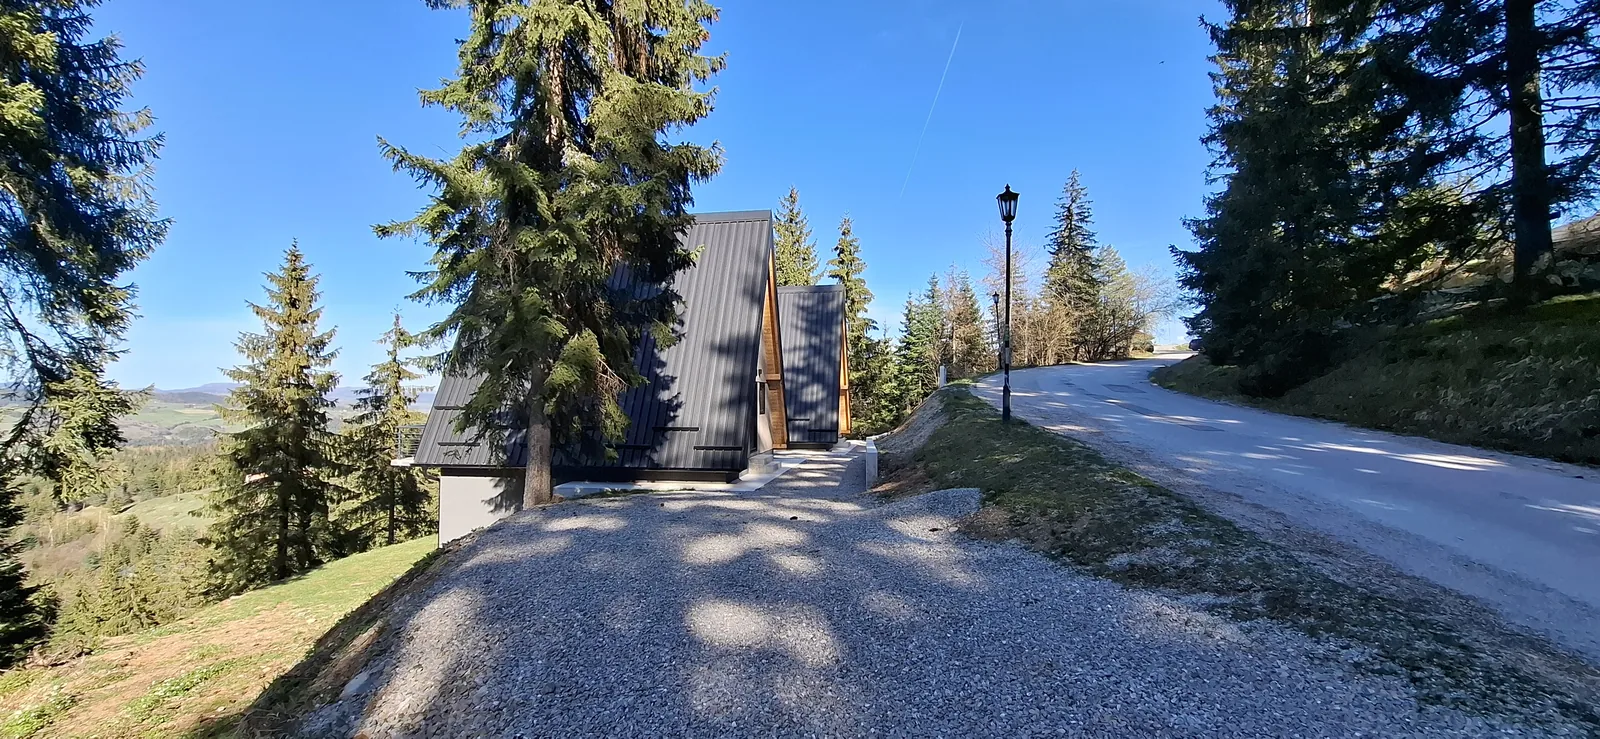
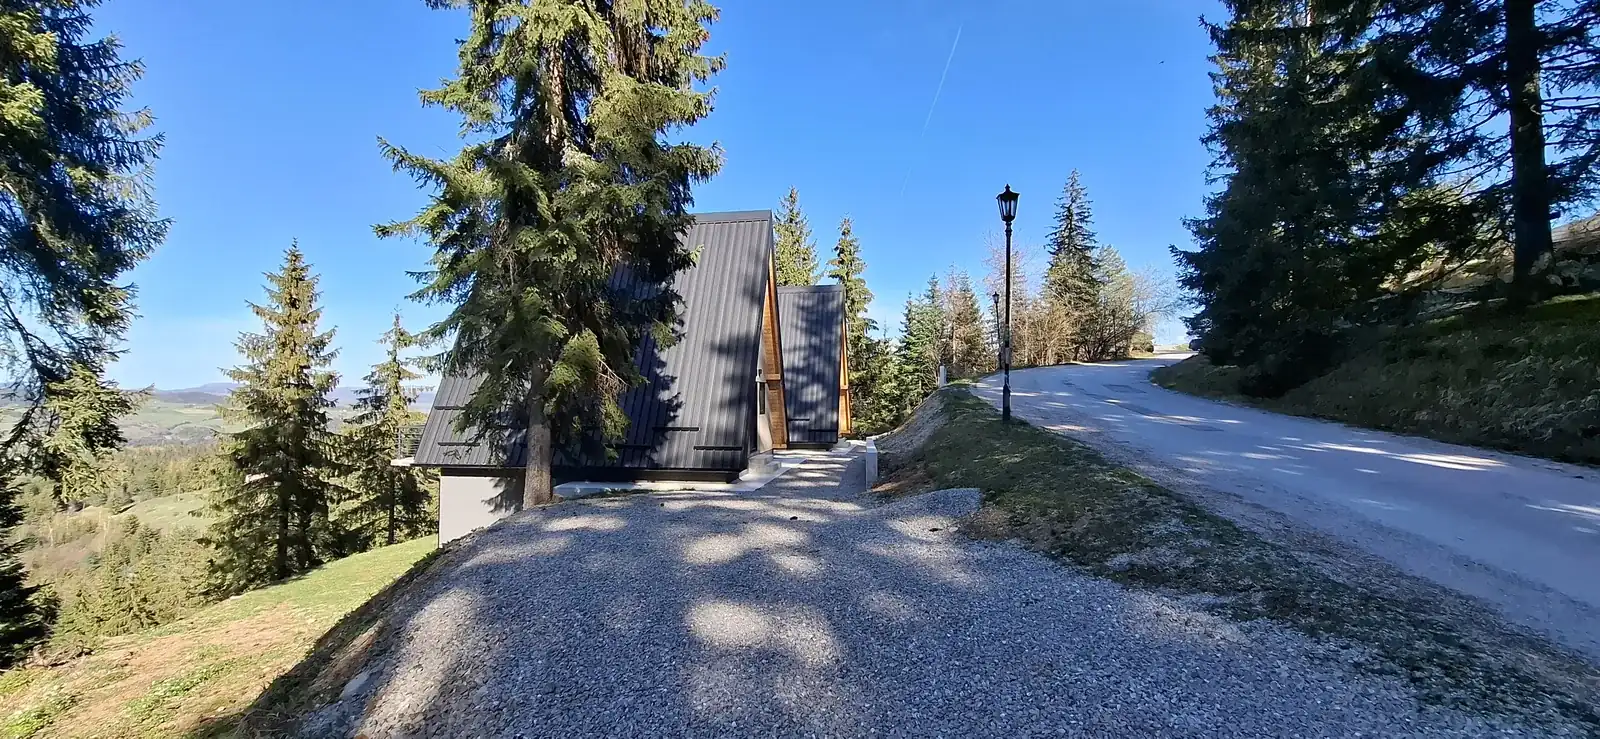
Polish launch SEO and image performance

diff --git a/index.html b/index.html
@@ -22,6 +22,50 @@
   <meta name="robots" content="index,follow,max-image-preview:large">
   <meta name="theme-color" content="#233429">
   <link rel="icon" href="favicon.svg" type="image/svg+xml">
+  <link
+    rel="preload"
+    as="image"
+    href="images/hero/hero-exterior.webp"
+    imagesrcset="images/hero/hero-exterior-960.webp 960w, images/hero/hero-exterior.webp 1920w"
+    imagesizes="100vw"
+  >
+  <script type="application/ld+json">
+    {
+      "@context": "https://schema.org",
+      "@type": ["LodgingBusiness", "VacationRental"],
+      "name": "Vikendica Zečević Zlatar",
+      "url": "https://vikendicazecevic.rs/",
+      "image": "https://vikendicazecevic.rs/images/hero/hero-exterior.webp",
+      "description": "Porodična A-frame vikendica na Zlataru za do 6 gostiju, sa terasom, Wi-Fi internetom, parkingom, roštiljem i planinskim mirom na 1.200 m.",
+      "email": "vikendicazecevic@gmail.com",
+      "telephone": ["+381 65 65 89 346", "+381 69 231 69 41"],
+      "address": {
+        "@type": "PostalAddress",
+        "streetAddress": "Brdo bb, Zlatar",
+        "addressLocality": "Nova Varoš",
+        "addressCountry": "RS"
+      },
+      "geo": {
+        "@type": "GeoCoordinates",
+        "latitude": 43.436136,
+        "longitude": 19.827811
+      },
+      "containsPlace": {
+        "@type": "Accommodation",
+        "name": "Vikendica Zečević",
+        "occupancy": {
+          "@type": "QuantitativeValue",
+          "maxValue": 6
+        },
+        "numberOfRooms": 2,
+        "floorSize": {
+          "@type": "QuantitativeValue",
+          "value": 60,
+          "unitCode": "MTK"
+        }
+      }
+    }
+  </script>
   <link rel="stylesheet" href="styles.css">
 </head>
 <body>
@@ -40,8 +84,8 @@
       </ul>
       <div class="nav-right">
         <div class="lang-toggle">
-          <button class="lang-btn active" type="button" data-lang="sr">SR</button>
-          <button class="lang-btn" type="button" data-lang="en">EN</button>
+          <button class="lang-btn active" type="button" data-lang="sr" aria-pressed="true">SR</button>
+          <button class="lang-btn" type="button" data-lang="en" aria-pressed="false">EN</button>
         </div>
         <button
           class="nav-hamburger"
@@ -66,6 +110,8 @@
       <img
         class="hero-image"
         src="images/hero/hero-exterior.webp"
+        srcset="images/hero/hero-exterior-960.webp 960w, images/hero/hero-exterior.webp 1920w"
+        sizes="100vw"
         width="1920"
         height="887"
         alt="Eksterijer Vikendice Zečević Zlatar u planinskom okruženju."
@@ -105,6 +151,8 @@
             <img
               class="about-photo"
               src="images/about/about-exterior.webp"
+              srcset="images/about/about-exterior-520.webp 520w, images/about/about-exterior.webp 693w"
+              sizes="(max-width: 768px) 90vw, 42vw"
               width="693"
               height="1500"
               alt="Eksterijer A-frame vikendice Zečević na Zlataru."
@@ -116,6 +164,8 @@
             <img
               class="about-photo"
               src="images/about/about-interior.webp"
+              srcset="images/about/about-interior-800.webp 800w, images/about/about-interior.webp 1600w"
+              sizes="(max-width: 768px) 45vw, 300px"
               width="1600"
               height="739"
               alt="Enterijer vikendice sa drvenom konstrukcijom i kuhinjom."
@@ -248,7 +298,7 @@
     <div class="lightbox-inner">
       <button class="lightbox-close" id="lb-close" type="button" data-i18n-aria="gallery.lightbox.close" aria-label="Zatvori">✕</button>
       <button class="lightbox-nav lightbox-prev" id="lb-prev" type="button" data-i18n-aria="gallery.lightbox.prev" aria-label="Prethodno">‹</button>
-      <div id="lb-content" class="lightbox-content" data-i18n="gallery.lightbox.placeholder">foto placeholder</div>
+      <div id="lb-content" class="lightbox-content" data-i18n="gallery.lightbox.placeholder">Izaberite fotografiju iz galerije.</div>
       <button class="lightbox-nav lightbox-next" id="lb-next" type="button" data-i18n-aria="gallery.lightbox.next" aria-label="Sledeće">›</button>
     </div>
   </div>

diff --git a/script.js b/script.js
@@ -2,7 +2,6 @@ const CONTENT = window.SITE_CONTENT;
 
 const AMENITY_ICONS = {
   beds: '<svg viewBox="0 0 24 24" fill="none" stroke="currentColor" stroke-width="2"><path d="M3 12l2-2m0 0l7-7 7 7M5 10v10a1 1 0 001 1h3m10-11l2 2m-2-2v10a1 1 0 01-1 1h-3m-6 0a1 1 0 001-1v-4a1 1 0 011-1h2a1 1 0 011 1v4a1 1 0 001 1m-6 0h6"></path></svg>',
-  fire: '<svg viewBox="0 0 24 24" fill="none" stroke="currentColor" stroke-width="2"><path d="M17.657 18.657A8 8 0 016.343 7.343M18 12a6 6 0 11-12 0 6 6 0 0112 0z"></path></svg>',
   wifi: '<svg viewBox="0 0 24 24" fill="none" stroke="currentColor" stroke-width="2"><path d="M8.111 16.404a5.5 5.5 0 017.778 0M12 20h.01m-7.08-7.071c3.904-3.905 10.236-3.905 14.141 0M1.394 9.393c5.857-5.857 15.355-5.857 21.213 0"></path></svg>',
   park: '<svg viewBox="0 0 24 24" fill="none" stroke="currentColor" stroke-width="2"><rect x="3" y="11" width="18" height="11" rx="2"></rect><path d="M7 11V7a5 5 0 0110 0v4"></path></svg>',
   terrace: '<svg viewBox="0 0 24 24" fill="none" stroke="currentColor" stroke-width="2"><path d="M3 9l9-7 9 7v11a2 2 0 01-2 2H5a2 2 0 01-2-2z"></path><polyline points="9 22 9 12 15 12 15 22"></polyline></svg>',
@@ -11,8 +10,6 @@ const AMENITY_ICONS = {
   linen: '<svg viewBox="0 0 24 24" fill="none" stroke="currentColor" stroke-width="2"><path d="M14 2H6a2 2 0 00-2 2v16a2 2 0 002 2h12a2 2 0 002-2V8z"></path><polyline points="14 2 14 8 20 8"></polyline></svg>',
   heat: '<svg viewBox="0 0 24 24" fill="none" stroke="currentColor" stroke-width="2"><circle cx="12" cy="12" r="10"></circle><path d="M12 8v4l3 3"></path></svg>',
   tv: '<svg viewBox="0 0 24 24" fill="none" stroke="currentColor" stroke-width="2"><rect x="2" y="7" width="20" height="15" rx="2"></rect><path d="M16 7V5a2 2 0 00-2-2h-4a2 2 0 00-2 2v2"></path></svg>',
-  pets: '<svg viewBox="0 0 24 24" fill="none" stroke="currentColor" stroke-width="2"><path d="M3 3h18v18H3zM9 3v18M15 3v18M3 9h18M3 15h18"></path></svg>',
-  games: '<svg viewBox="0 0 24 24" fill="none" stroke="currentColor" stroke-width="2"><path d="M21 16V8a2 2 0 00-1-1.73l-7-4a2 2 0 00-2 0l-7 4A2 2 0 003 8v8a2 2 0 001 1.73l7 4a2 2 0 002 0l7-4A2 2 0 0021 16z"></path></svg>',
 };
 
 const INQUIRY_ICONS = {
@@ -161,8 +158,10 @@ function getGalleryEntries(lang = currentLang) {
     return {
       index,
       layout: media.layout || "standard",
-      source: media.src || media.placeholder || "",
-      fallbackSource: media.placeholder || media.src || "",
+      source: media.src || "",
+      fallbackSource: media.src || "",
+      srcset: media.srcset || "",
+      sizes: media.sizes || "",
       width: Number(media.width) || 1600,
       height: Number(media.height) || 1200,
       label: applyTokens(text.label || fallbackLabel),
@@ -445,7 +444,9 @@ function applyLocalizedText(lang) {
   });
 
   document.querySelectorAll(".lang-btn").forEach((button) => {
-    button.classList.toggle("active", button.dataset.lang === lang);
+    const isActive = button.dataset.lang === lang;
+    button.classList.toggle("active", isActive);
+    button.setAttribute("aria-pressed", String(isActive));
   });
 
   if (mapFrame) {
@@ -518,6 +519,8 @@ function renderGallery(lang) {
                 src="${escapeHtml(item.source)}"
                 data-fallback="${escapeHtml(item.fallbackSource)}"
                 alt="${escapeHtml(item.alt)}"
+                ${item.srcset ? `srcset="${escapeHtml(item.srcset)}"` : ""}
+                ${item.sizes ? `sizes="${escapeHtml(item.sizes)}"` : ""}
                 loading="lazy"
                 decoding="async"
                 width="${item.width}"

diff --git a/content.js b/content.js
@@ -34,56 +34,64 @@ window.SITE_CONTENT = {
     galleryMedia: [
       {
         src: "images/gallery/gallery-01-exterior.webp",
-        placeholder: "images/gallery/placeholders/exterior.svg",
+        srcset: "images/gallery/gallery-01-exterior-800.webp 800w, images/gallery/gallery-01-exterior.webp 1600w",
+        sizes: "(max-width: 560px) 100vw, (max-width: 900px) 100vw, 50vw",
         width: 1600,
         height: 739,
         layout: "featured",
       },
       {
         src: "images/gallery/gallery-02-living-room.webp",
-        placeholder: "images/gallery/placeholders/interior.svg",
+        srcset: "images/gallery/gallery-02-living-room-800.webp 800w, images/gallery/gallery-02-living-room.webp 1600w",
+        sizes: "(max-width: 560px) 100vw, (max-width: 900px) 50vw, 25vw",
         width: 1600,
         height: 739,
         layout: "standard",
       },
       {
         src: "images/gallery/gallery-03-kitchen-dining.webp",
-        placeholder: "images/gallery/placeholders/interior.svg",
+        srcset: "images/gallery/gallery-03-kitchen-dining-800.webp 800w, images/gallery/gallery-03-kitchen-dining.webp 1600w",
+        sizes: "(max-width: 560px) 100vw, (max-width: 900px) 50vw, 25vw",
         width: 1600,
         height: 739,
         layout: "standard",
       },
       {
         src: "images/gallery/gallery-04-terrace-view.webp",
-        placeholder: "images/gallery/placeholders/landscape.svg",
+        srcset: "images/gallery/gallery-04-terrace-view-800.webp 800w, images/gallery/gallery-04-terrace-view.webp 1600w",
+        sizes: "(max-width: 560px) 100vw, (max-width: 900px) 100vw, 50vw",
         width: 1600,
         height: 739,
         layout: "wide",
       },
       {
         src: "images/gallery/gallery-05-bedroom.webp",
-        placeholder: "images/gallery/placeholders/interior.svg",
+        srcset: "images/gallery/gallery-05-bedroom-800.webp 800w, images/gallery/gallery-05-bedroom.webp 1600w",
+        sizes: "(max-width: 560px) 100vw, (max-width: 900px) 50vw, 25vw",
         width: 1600,
         height: 739,
         layout: "standard",
       },
       {
         src: "images/gallery/gallery-06-upstairs-bed.webp",
-        placeholder: "images/gallery/placeholders/interior.svg",
+        srcset: "images/gallery/gallery-06-upstairs-bed-800.webp 800w, images/gallery/gallery-06-upstairs-bed.webp 1600w",
+        sizes: "(max-width: 560px) 100vw, (max-width: 900px) 50vw, 25vw",
         width: 1600,
         height: 739,
         layout: "standard",
       },
       {
         src: "images/gallery/gallery-07-bathroom.webp",
-        placeholder: "images/gallery/placeholders/interior.svg",
+        srcset: "images/gallery/gallery-07-bathroom-800.webp 800w, images/gallery/gallery-07-bathroom.webp 1600w",
+        sizes: "(max-width: 560px) 100vw, (max-width: 900px) 50vw, 25vw",
         width: 1600,
         height: 739,
         layout: "standard",
       },
       {
         src: "images/gallery/gallery-08-surroundings.webp",
-        placeholder: "images/gallery/placeholders/landscape.svg",
+        srcset: "images/gallery/gallery-08-surroundings-800.webp 800w, images/gallery/gallery-08-surroundings.webp 1600w",
+        sizes: "(max-width: 560px) 100vw, (max-width: 900px) 50vw, 25vw",
         width: 1600,
         height: 739,
         layout: "standard",

diff --git a/styles.css b/styles.css
@@ -739,26 +739,6 @@ main,
   background: var(--surface-strong);
 }
 
-.img-placeholder {
-  width: 100%;
-  height: 100%;
-  padding: 1.25rem 1.4rem;
-  display: flex;
-  align-items: flex-end;
-  justify-content: flex-start;
-  color: rgba(75, 60, 39, 0.72);
-  font-family: var(--ff-body);
-  font-size: 0.72rem;
-  font-weight: 600;
-  letter-spacing: 0.16em;
-  line-height: 1.5;
-  text-align: left;
-  text-transform: uppercase;
-  background:
-    linear-gradient(180deg, rgba(255, 255, 255, 0.18), rgba(255, 255, 255, 0)),
-    repeating-linear-gradient(135deg, rgba(151, 130, 95, 0.08) 0px, rgba(151, 130, 95, 0.08) 1px, rgba(244, 240, 232, 0.68) 1px, rgba(244, 240, 232, 0.68) 34px);
-}
-
 .about-photo {
   width: 100%;
   height: 100%;

diff --git a/README.md b/README.md
@@ -1,6 +1,6 @@
 # Vikendica Zečević Zlatar Site
 
-Static extraction of the bundled `vikendica-zlatar-export.html` into plain editable files. The goal is to preserve the current design and behavior while making future edits straightforward.
+Lightweight static-first website for Vikendica Zečević Zlatar, with bilingual content and one Netlify Function for inquiry notifications.
 
 ## Structure
 
@@ -14,9 +14,9 @@ Static extraction of the bundled `vikendica-zlatar-export.html` into plain edita
 - `netlify.toml`: Netlify redirect so the public endpoint stays `/api/inquire`
 - `.env.example`: required environment variables for Telegram, SMTP, and light rate limiting
 - `package.json`: minimal backend dependency manifest (`nodemailer`)
-- `assets/fonts/`: locally extracted `woff2` files from the export bundle
-- `images/`: optimized production photos, placeholders, and replacement notes
-- `AGENTS.md`: concise repo rules for future edits
+- `assets/fonts/`: local `woff2` font files
+- `images/`: optimized production photos and replacement notes
+- `sitemap.xml` and `robots.txt`: crawler hints for the production domain
 
 ## Run Locally
 
@@ -35,6 +35,7 @@ For normal content updates, edit `content.js`.
 
 - Text, captions, amenities, nearby distances, contact details, SEO copy, and form labels now live in `content.js`
 - `index.html` still contains fallback copy inside some elements, but `content.js` is the authoritative source used by the running site
+- Structured data lives in `index.html`; update it only when the verified business facts change.
 
 ## Inquiry Endpoint
 
@@ -155,11 +156,13 @@ Hosts like GitHub Pages, S3, or plain Nginx are no longer enough by themselves i
 ## Known Limitations
 
 - Optimized property photos are now wired into the hero, about, and gallery sections; replace them later only if a stronger final photo set is provided.
+- Responsive WebP variants are generated for mobile performance; keep the `srcset` values in `index.html` and `content.js` aligned when replacing photos.
 - The Google Maps embed uses the owner-provided location pin.
 - Canonical and Open Graph URL use `https://vikendicazecevic.rs/`.
+- `sitemap.xml` contains only the single homepage because this is a one-page static site.
 - Rate limiting is in-memory and best-effort in serverless environments; it resets on cold starts and should be treated as light spam protection only.
 - Netlify uses `netlify/functions/inquire.js` plus the redirect in `netlify.toml` to serve `/api/inquire`.
-- `AGENTS.md` is ignored by `.gitignore`; remove it before manual static uploads if you are not deploying from git.
+- Raw source photos and agent/development notes are intentionally ignored by git; deploy from GitHub/Netlify rather than manually uploading the whole local folder.
 
 ## What Was Simplified
 
@@ -172,5 +175,5 @@ Hosts like GitHub Pages, S3, or plain Nginx are no longer enough by themselves i
 ## Current Placeholders / Remaining Gaps
 
 - Raw source photos are not stored in the production site; keep originals in external storage.
-- SMTP and Telegram credentials still need to be configured in the deployment platform
+- SMTP and Telegram credentials need to be configured in the deployment platform for the live inquiry flow
 - The Google Maps embed depends on external availability; a fallback placeholder is already in the markup

diff --git a/images/README.md b/images/README.md
@@ -2,40 +2,46 @@
 
 This project keeps gallery image paths in `content.js` under `shared.galleryMedia`.
 
-Fallback placeholder assets live in:
-
-- `images/gallery/placeholders/exterior.svg`
-- `images/gallery/placeholders/interior.svg`
-- `images/gallery/placeholders/landscape.svg`
-
 Current production gallery filenames:
 
 - `images/gallery/gallery-01-exterior.webp`
+- `images/gallery/gallery-01-exterior-800.webp`
 - `images/gallery/gallery-02-living-room.webp`
+- `images/gallery/gallery-02-living-room-800.webp`
 - `images/gallery/gallery-03-kitchen-dining.webp`
+- `images/gallery/gallery-03-kitchen-dining-800.webp`
 - `images/gallery/gallery-04-terrace-view.webp`
+- `images/gallery/gallery-04-terrace-view-800.webp`
 - `images/gallery/gallery-05-bedroom.webp`
+- `images/gallery/gallery-05-bedroom-800.webp`
 - `images/gallery/gallery-06-upstairs-bed.webp`
+- `images/gallery/gallery-06-upstairs-bed-800.webp`
 - `images/gallery/gallery-07-bathroom.webp`
+- `images/gallery/gallery-07-bathroom-800.webp`
 - `images/gallery/gallery-08-surroundings.webp`
+- `images/gallery/gallery-08-surroundings-800.webp`
 
 Hero and about images:
 
 - `images/hero/hero-exterior.webp`
+- `images/hero/hero-exterior-960.webp`
 - `images/about/about-exterior.webp`
+- `images/about/about-exterior-520.webp`
 - `images/about/about-interior.webp`
+- `images/about/about-interior-800.webp`
 
 Replacement workflow:
 
 1. Add optimized real photos to `images/hero/`, `images/about/`, or `images/gallery/`.
-2. Update each `shared.galleryMedia[].src` value in `content.js`.
-3. Keep or remove the `placeholder` value depending on whether you still want a fallback.
+2. Create matching mobile variants, for example `gallery-01-exterior-800.webp`.
+3. Update each `shared.galleryMedia[].src`, `srcset`, and `sizes` value in `content.js`.
 4. Update the matching localized text in `localized.sr.gallery.items[]` and `localized.en.gallery.items[]`.
+5. Update hardcoded hero/about `srcset` values in `index.html` if those images change.
 
 Optimization guidance:
 
 - Use WebP for gallery photos when possible.
 - Target about `1600px` wide for gallery images and keep each file as small as practical.
+- Keep an `800px` wide gallery variant for mobile browsers.
 - Keep future hero images around `1920px` wide and compressed for web delivery.
 - Avoid uploading raw phone/camera files directly; compress them with Squoosh, Sharp, or another image optimizer first.
-- After real photos are added and tested, remove unused SVG placeholders if they are no longer referenced.
